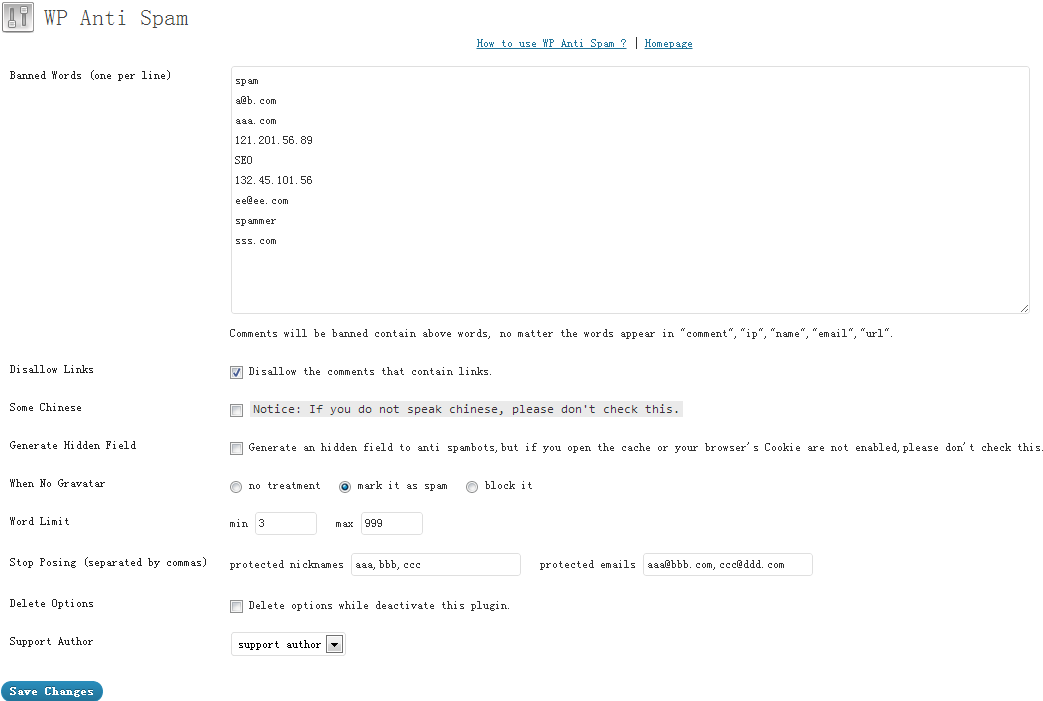
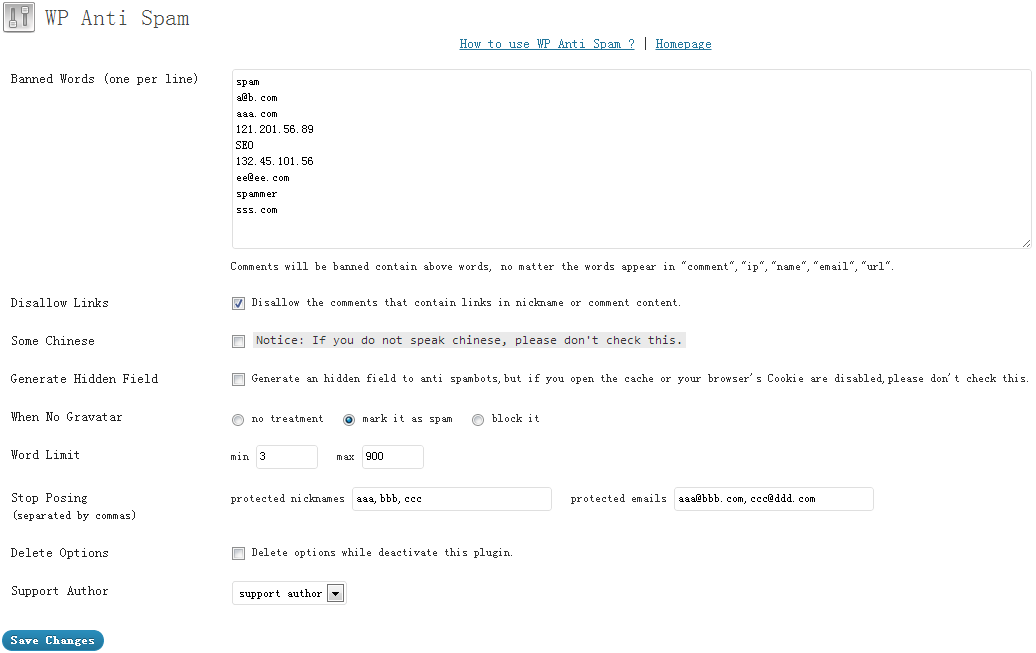
version 1.2.6

diff --git a/wp-anti-spam.php b/wp-anti-spam.php
@@ -3,7 +3,7 @@
 Plugin Name: WP Anti Spam
 Plugin URI: http://boliquan.com/wp-anti-spam/
 Description: WP Anti Spam can anti automated spambots, it can also anti artificial spams by"comment","ip","name","email","url". It has many other ways to deal with the spam comments. Besides,it can delete its own options, so it is a green plugin ! 
-Version: 1.2.5
+Version: 1.2.6
 Author: BoLiQuan
 Author URI: http://boliquan.com/
 Text Domain: WP-Anti-Spam
@@ -31,7 +31,8 @@ function wp_anti_spam($comment_data){
 		$wp_anti_spam_word = trim($wp_anti_spam_word);
 		foreach($comment_fields as $comment_field){
 			if( $wp_anti_spam_word != '' && isset($_POST[$comment_field]) ){
-				if(eregi($wp_anti_spam_word, $_POST[$comment_field]) !== false){
+				//if(eregi($wp_anti_spam_word, $_POST[$comment_field]) !== false){
+				if(stristr($_POST[$comment_field],$wp_anti_spam_word) !== false){
  					wp_die(__('Error: The information you submit contains banned words.','WP-Anti-Spam').WASINFO);
 				}
 			}
@@ -44,9 +45,9 @@ function wp_anti_spam($comment_data){
 	}
 
 	if(get_option("wp_anti_spam_links")=='yes'){
-		$links = '/http:\/\//u';
-		if(preg_match($links, $comment_data['comment_content'])){
-			wp_die(__('Error: Links are not allowed in comments.','WP-Anti-Spam').WASINFO);
+		$links = '/http:\/\/|https:\/\/|www\./u';
+		if( preg_match($links,$comment_data['comment_author']) || preg_match($links,$comment_data['comment_content']) ){
+			wp_die(__('Error: Links are not allowed in nickname or comment content.','WP-Anti-Spam').WASINFO);
 		}
 	}
 
@@ -59,11 +60,8 @@ function wp_anti_spam($comment_data){
 
 	return($comment_data);
 }
+add_filter('preprocess_comment','wp_anti_spam',1);
 
-add_filter('preprocess_comment','wp_anti_spam');
-?>
-<?php if(is_admin()){require_once('wp_anti_spam_admin.php');} ?>
-<?php
 if(get_option("wp_anti_spam_hiddenfield")!=''){
 	if(!isset($_SESSION)){
 		session_start();
@@ -90,24 +88,27 @@ if(get_option("wp_anti_spam_hiddenfield")!=''){
 		}
 		return $hidden_check;
 	}
-	add_filter('preprocess_comment','wp_anti_spam_hiddenfield');
+	add_filter('preprocess_comment','wp_anti_spam_hiddenfield',1);
 }
 
 if(get_option("wp_anti_spam_gravatar")!='no-treatment'){
-	function was_app_get_html($url){
+	function was_get_headers_curl($url){
 		$curl = curl_init($url);
-		$useragent="Mozilla/5.0 (Windows NT 5.1; rv:6.0.1) Gecko/20100101 Firefox/6.0.1";
+		$useragent = "Mozilla/5.0 (Windows NT 5.1; rv:6.0.1) Gecko/20100101 Firefox/6.0.1";
+		curl_setopt($curl, CURLOPT_USERAGENT, $useragent);
 		curl_setopt($curl, CURLOPT_RETURNTRANSFER, true);
-		curl_setopt ($curl, CURLOPT_USERAGENT, $useragent);
-		$data = curl_exec($curl);
+		curl_setopt($curl, CURLOPT_HEADER, true);
+		curl_setopt($curl, CURLOPT_NOBODY, true);
+		$headers = trim(curl_exec($curl));
+		$headers = explode("\n",$headers);
 		curl_close($curl);
-		return $data;
+		return $headers;
 	}
 	function was_no_avatar_to_spam($comment){
 		$emaildata = md5( strtolower($comment['comment_author_email']) );
 		$urldata = 'http://www.gravatar.com/avatar/'. $emaildata .'?d=404';
-		$avatarinfo = was_app_get_html( $urldata );
-		if(substr($avatarinfo,0,3)=='404'){
+		$avatarheaders = was_get_headers_curl($urldata);
+		if(preg_match("/404/",$avatarheaders[0])){
 			if(get_option("wp_anti_spam_gravatar")=='mark-it-as-spam' && !is_user_logged_in()){
 				add_filter('pre_comment_approved', create_function('', 'return "spam";'));
 			}
@@ -127,25 +128,27 @@ if(get_option("wp_anti_spam_min")!='' && get_option("wp_anti_spam_max")!=''){
 		}
 		return($incoming_comment);
 	}
-	add_filter('preprocess_comment','was_comment_length');
+	add_filter('preprocess_comment','was_comment_length',1);
 }
 
-if(get_option("wp_anti_spam_nicknames")!='' || get_option("wp_anti_spam_emails")!=''){
-	function was_commenter_check($incoming_comment){
-		$isposing = 0;
+function was_commenter_check($incoming_comment){
+	$isposing = 0;
+	if(get_option("wp_anti_spam_nicknames")!=''){
 		$wp_anti_spam_nicknames = explode("," , get_option("wp_anti_spam_nicknames"));
 		foreach($wp_anti_spam_nicknames as $wp_anti_spam_nickname){
 			if($incoming_comment['comment_author'] == trim($wp_anti_spam_nickname)) { $isposing = 1; }
 		}
+	}
+	if(get_option("wp_anti_spam_emails")!=''){
 		$wp_anti_spam_emails = explode("," , get_option("wp_anti_spam_emails"));
 		foreach($wp_anti_spam_emails as $wp_anti_spam_email){
 			if($incoming_comment['comment_author_email'] == trim($wp_anti_spam_email)) { $isposing = 1; }
 		}
-		if(!$isposing || is_user_logged_in()) { return $incoming_comment; }
-		wp_die(__('Error: Only the logged user can use this nickname or email.','WP-Anti-Spam').WASINFO);
 	}
-	add_filter('preprocess_comment','was_commenter_check');
+	if(!$isposing || is_user_logged_in()) { return $incoming_comment; }
+	wp_die(__('Error: Only the logged user can use this nickname or email.','WP-Anti-Spam').WASINFO);
 }
+add_filter('preprocess_comment','was_commenter_check',1);
 
 function wp_anti_spam_activate(){
 	add_option('wp_anti_spam_words','');
@@ -185,5 +188,7 @@ function wp_anti_spam_settings_link($action_links,$plugin_file){
 	}
 	return $action_links;
 }
-add_filter('plugin_action_links','wp_anti_spam_settings_link',10,4); 
+add_filter('plugin_action_links','wp_anti_spam_settings_link',10,4);
+
+if(is_admin()){require_once('wp_anti_spam_admin.php');}
 ?>

diff --git a/wp_anti_spam_admin.php b/wp_anti_spam_admin.php
@@ -35,7 +35,7 @@ function wp_anti_spam_options(){
 		</th>
 		<td>
 			<label>
-				<textarea type="text" name="wp_anti_spam_words" cols="50" rows="12" style="width:86%;font-size:12px;"><?php echo get_option('wp_anti_spam_words'); ?></textarea>
+				<textarea type="text" name="wp_anti_spam_words" cols="100" rows="11" style="width:800px;height:180px;font-size:12px;"><?php echo get_option('wp_anti_spam_words'); ?></textarea>
 				<br /><?php _e('Comments will be banned contain above words, no matter the words appear in "comment","ip","name","email","url".','WP-Anti-Spam'); ?>
 			</label>
 		</td>
@@ -47,7 +47,7 @@ function wp_anti_spam_options(){
 		<td>
 			<label>
 				<input type="checkbox" name="wp_anti_spam_links" value="yes" <?php if(get_option("wp_anti_spam_links")=='yes') echo 'checked="checked"'; ?> />
-				<?php _e("Disallow the comments that contain links.",'WP-Anti-Spam'); ?>
+				<?php _e("Disallow the comments that contain links in nickname or comment content.",'WP-Anti-Spam'); ?>
 			</label>
 		</td>
 	</tr>
@@ -69,7 +69,7 @@ function wp_anti_spam_options(){
 		<td>
 			<label>
 				<input type="checkbox" name="wp_anti_spam_hiddenfield" value="yes" <?php if(get_option("wp_anti_spam_hiddenfield")=='yes') echo 'checked="checked"'; ?> />
-				<?php _e("Generate an hidden field to anti spambots,but if you open the cache or your browser's Cookie are not enabled,please don't check this.",'WP-Anti-Spam'); ?>
+				<?php _e("Generate an hidden field to anti spambots,but if you open the cache or your browser's Cookie are disabled,please don't check this.",'WP-Anti-Spam'); ?>
 			</label>
 		</td>
 	</tr>
@@ -101,28 +101,28 @@ function wp_anti_spam_options(){
 		<td>
 			<label>
 				<?php _e('min','WP-Anti-Spam'); ?>
-				<input type="text" name="wp_anti_spam_min" value="<?php echo get_option('wp_anti_spam_min'); ?>" size="8" />
+				<input type="text" name="wp_anti_spam_min" value="<?php echo get_option('wp_anti_spam_min'); ?>" size="8" style="width:62px;height:24px;" />
 			</label>
 			&nbsp;
 			<label>
 				<?php _e('max','WP-Anti-Spam'); ?>
-				<input type="text" name="wp_anti_spam_max" value="<?php echo get_option('wp_anti_spam_max'); ?>" size="8" />
+				<input type="text" name="wp_anti_spam_max" value="<?php echo get_option('wp_anti_spam_max'); ?>" size="8" style="width:62px;height:24px;" />
 			</label>
 		</td>
 	</tr>
 	<tr valign="top">
 		<th scope="row">
-			<?php _e('Stop Posing (separated by commas)','WP-Anti-Spam'); ?>
+			<?php _e('Stop Posing <br /><small>(separated by commas)</small>','WP-Anti-Spam'); ?>
 		</th>
 		<td>
 			<label>
 				<?php _e('protected nicknames','WP-Anti-Spam'); ?>
-				<input type="text" name="wp_anti_spam_nicknames" value="<?php echo get_option('wp_anti_spam_nicknames'); ?>" size="26" />
+				<input type="text" name="wp_anti_spam_nicknames" value="<?php echo get_option('wp_anti_spam_nicknames'); ?>" size="30" style="width:200px;height:24px;" />
 			</label>
 			&nbsp;
 			<label>
 				<?php _e('protected emails','WP-Anti-Spam'); ?>
-				<input type="text" name="wp_anti_spam_emails" value="<?php echo get_option('wp_anti_spam_emails'); ?>" size="26" />
+				<input type="text" name="wp_anti_spam_emails" value="<?php echo get_option('wp_anti_spam_emails'); ?>" size="30" style="width:200px;height:24px;" />
 			</label>
 		</td>
 	</tr>
@@ -176,7 +176,8 @@ If you find my work useful and you want to encourage the development of more fre
 <div class="icon32"><img src="<?php echo $blq_logo_url; ?>" alt="BoLiQuan" /></div>
 <h2>Related Links</h2>
 <ul style="margin:0 18px;">
-<li><a href="http://boliquan.com/wp-anti-spam/" target="_blank">WP-Anti-Spam (FAQ)</a> | <a href="http://wordpress.org/extend/plugins/wp-anti-spam/" target="_blank">Download</a></li>
+<li><a href="http://boliquan.com/wp-anti-spam/" target="_blank">WP Anti Spam (FAQ)</a> | <a href="http://boliquan.com/wp-anti-spam/" target="_blank">Submit Translations</a> | <a href="http://wordpress.org/extend/plugins/wp-anti-spam/" target="_blank">Download</a></li>
+<li><a href="http://boliquan.com/wp-clean-up/" target="_blank">WP Clean Up</a> | <a href="http://wordpress.org/extend/plugins/wp-clean-up/" target="_blank">Download</a></li>
 <li><a href="http://boliquan.com/wp-smtp/" target="_blank">WP SMTP</a> | <a href="http://wordpress.org/extend/plugins/wp-smtp/" target="_blank">Download</a></li>
 <li><a href="http://boliquan.com/wp-code-highlight/" target="_blank">WP Code Highlight</a> | <a href="http://wordpress.org/extend/plugins/wp-code-highlight/" target="_blank">Download</a></li>
 <li><a href="http://boliquan.com/wp-slug-translate/" target="_blank">WP Slug Translate</a> | <a href="http://wordpress.org/extend/plugins/wp-slug-translate/" target="_blank">Download</a></li>
